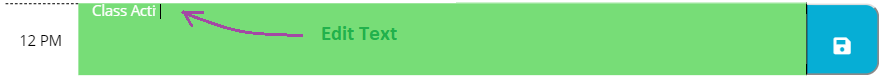
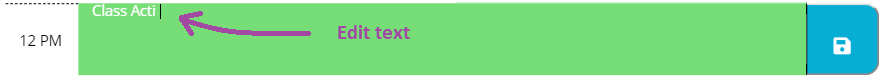
Misspells fixed, gif added

Changed region(s): [[0.1839, 0.1316, 0.4904, 0.5263]]

diff --git a/README.md b/README.md
@@ -3,6 +3,8 @@ Name
 
 "Web APIs (jQuery), "Work Day Scheduler".
 
+![gif](https://carleton.bootcampcontent.com/carleton-university/CARL-OTT-FSF-PT-02-2020-U-C/raw/master/05-Third-Party-APIs/02-Homework/Assets/05-third-party-apis-homework-demo.gif)
+
 
 instruction 
 (Hold "Ctrl" key while you click on image "sample.png" to visualize)
